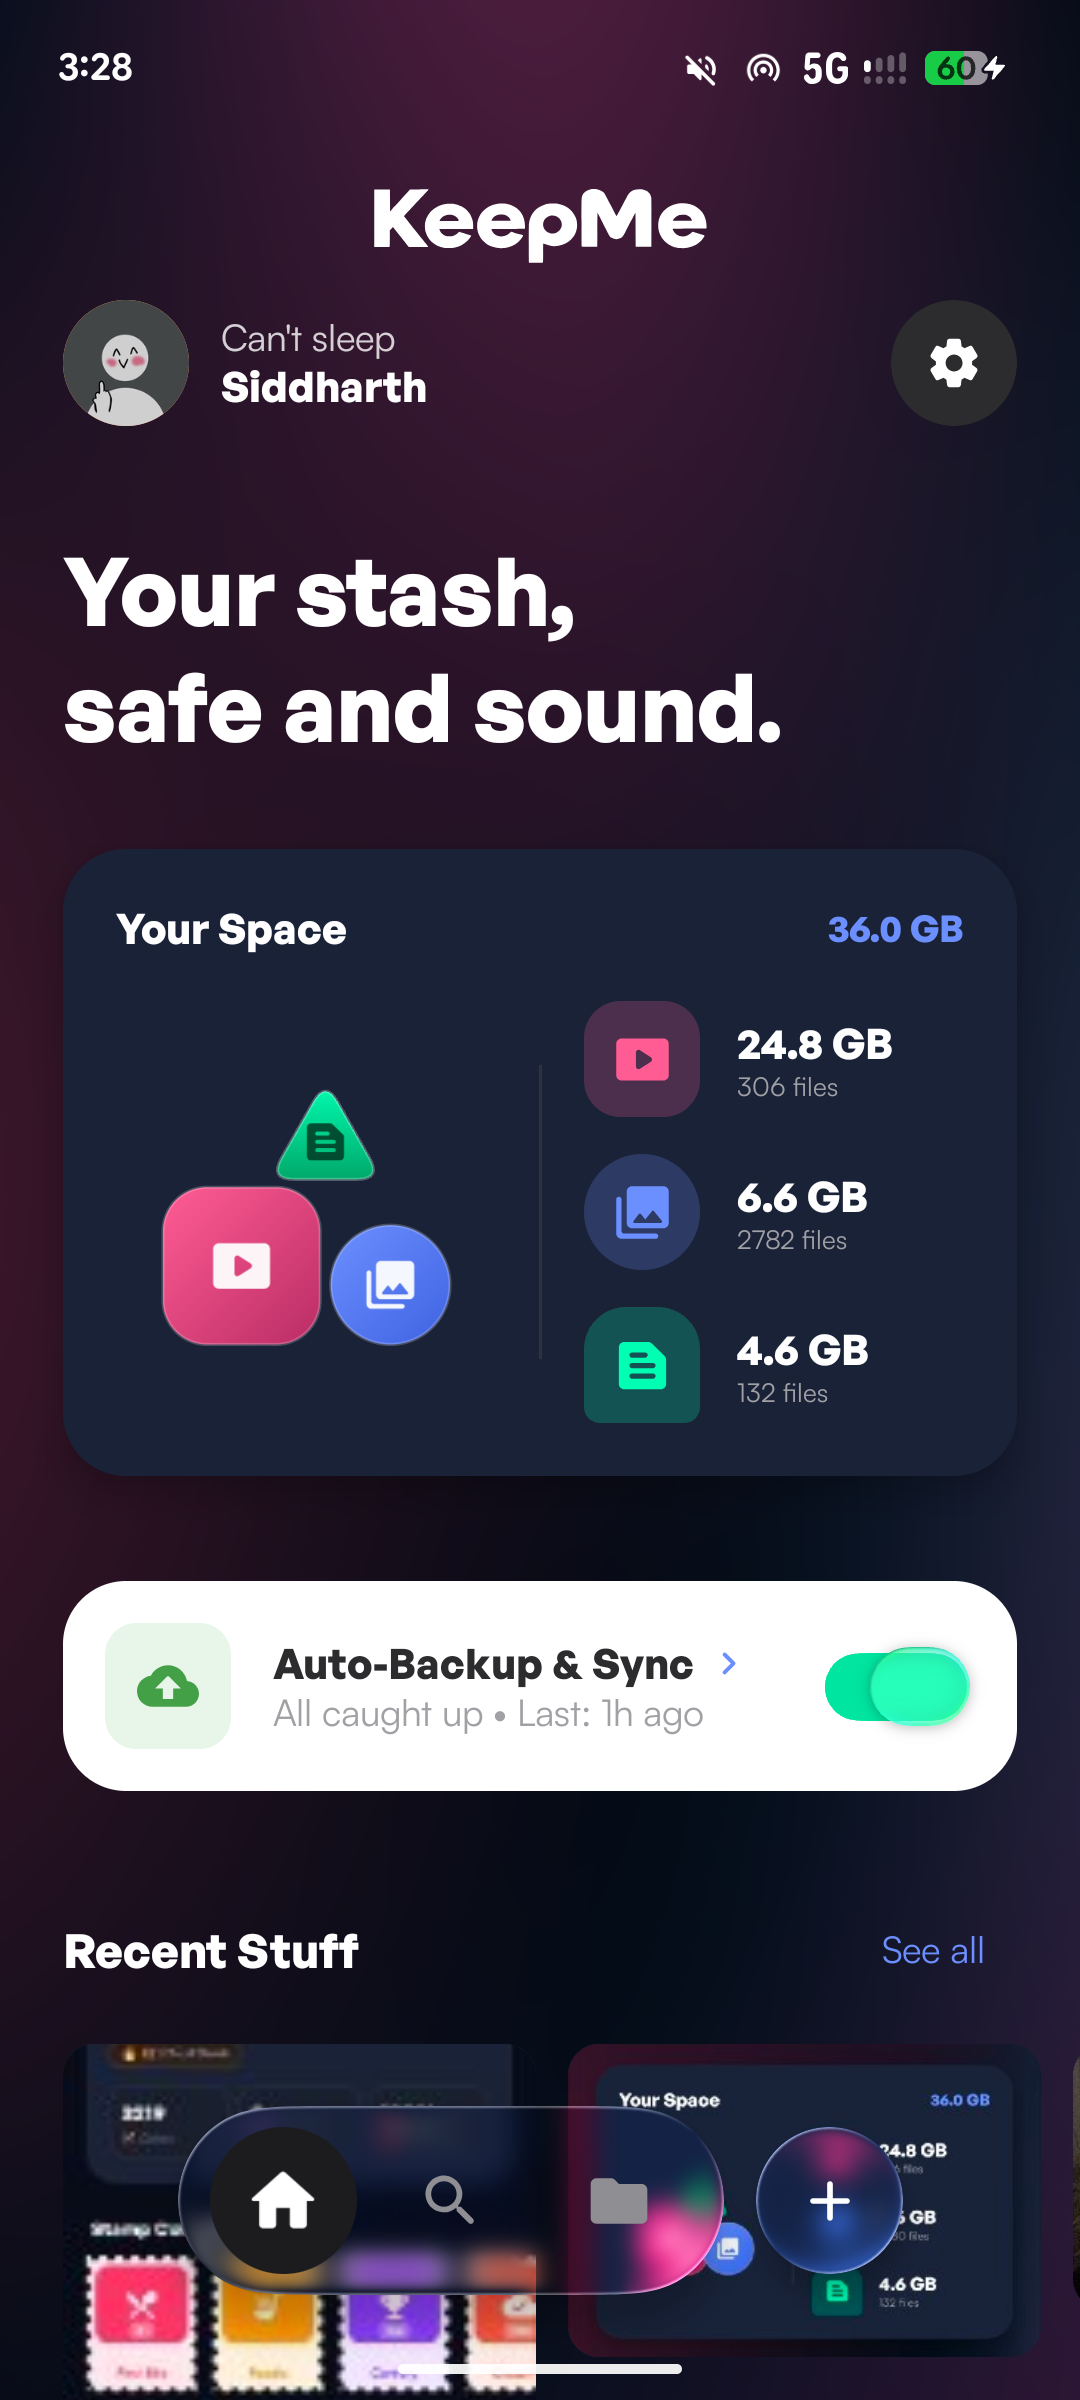
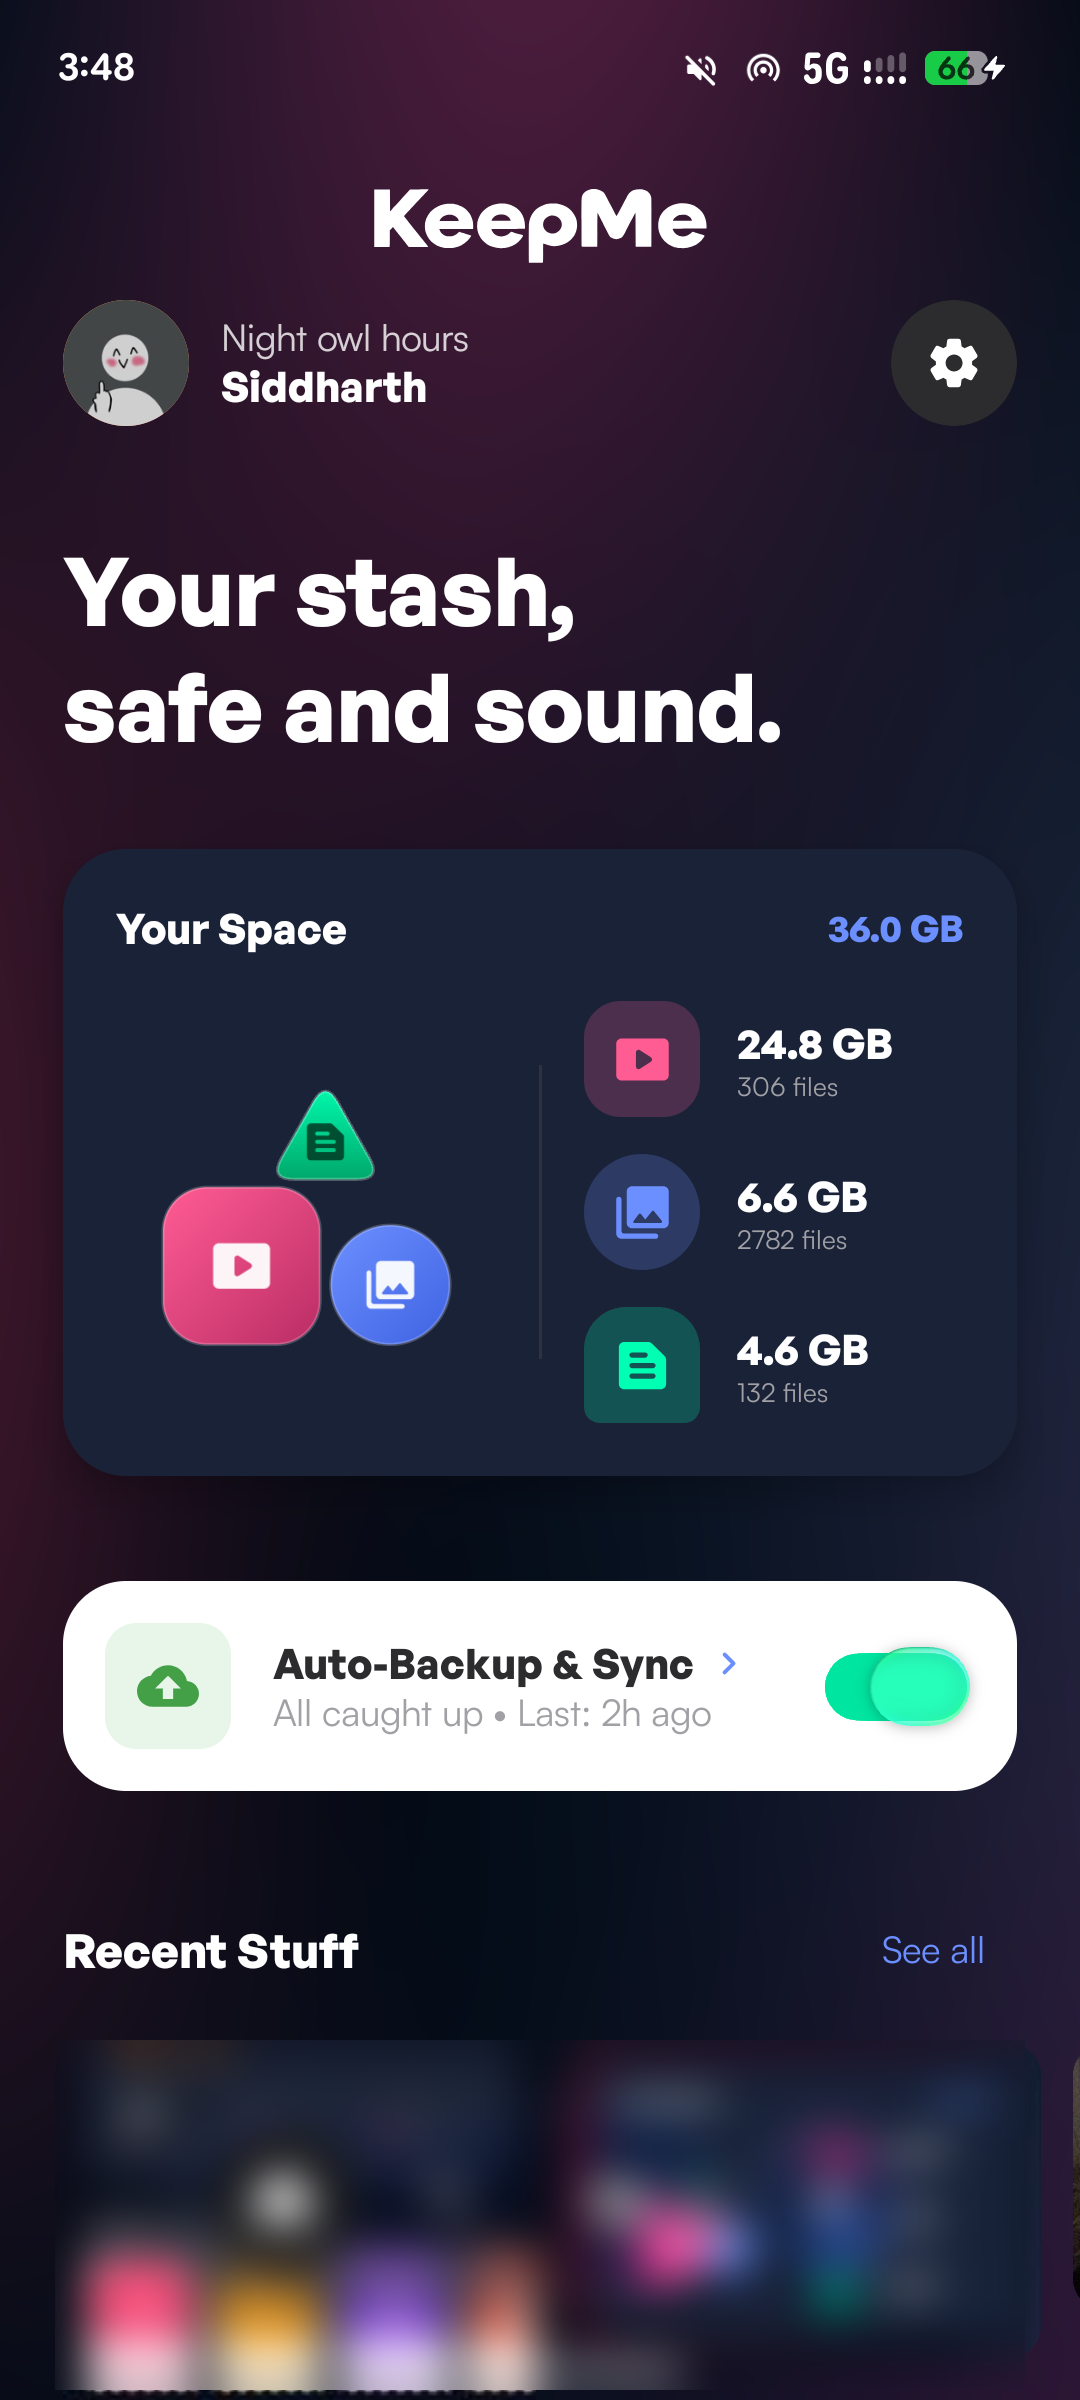
docs: Retake clean screenshots for Home, Folders, Add Modal, Search, and Settings (blurred phone number)

diff --git a/README.md b/README.md
@@ -27,9 +27,16 @@
 ## 📸 Screenshots
 
 <p align="center">
-  <img src="docs/screenshots/01_home_screen.png" width="320" alt="KeepMe Home Screen" />
-  &nbsp;&nbsp;&nbsp;&nbsp;
-  <img src="docs/screenshots/02_search_screen.png" width="320" alt="KeepMe Search & Filters" />
+  <img src="docs/screenshots/01_home_screen.png" width="230" alt="KeepMe Home Screen" />
+  &nbsp;
+  <img src="docs/screenshots/02_folders_screen.png" width="230" alt="My Drive Folders" />
+  &nbsp;
+  <img src="docs/screenshots/03_create_upload.png" width="230" alt="Create & Upload Modal" />
+</p>
+<p align="center">
+  <img src="docs/screenshots/04_search_screen.png" width="230" alt="Search Screen" />
+  &nbsp;
+  <img src="docs/screenshots/05_settings_screen.png" width="230" alt="Settings & Auto-Backup" />
 </p>
 
 ---
